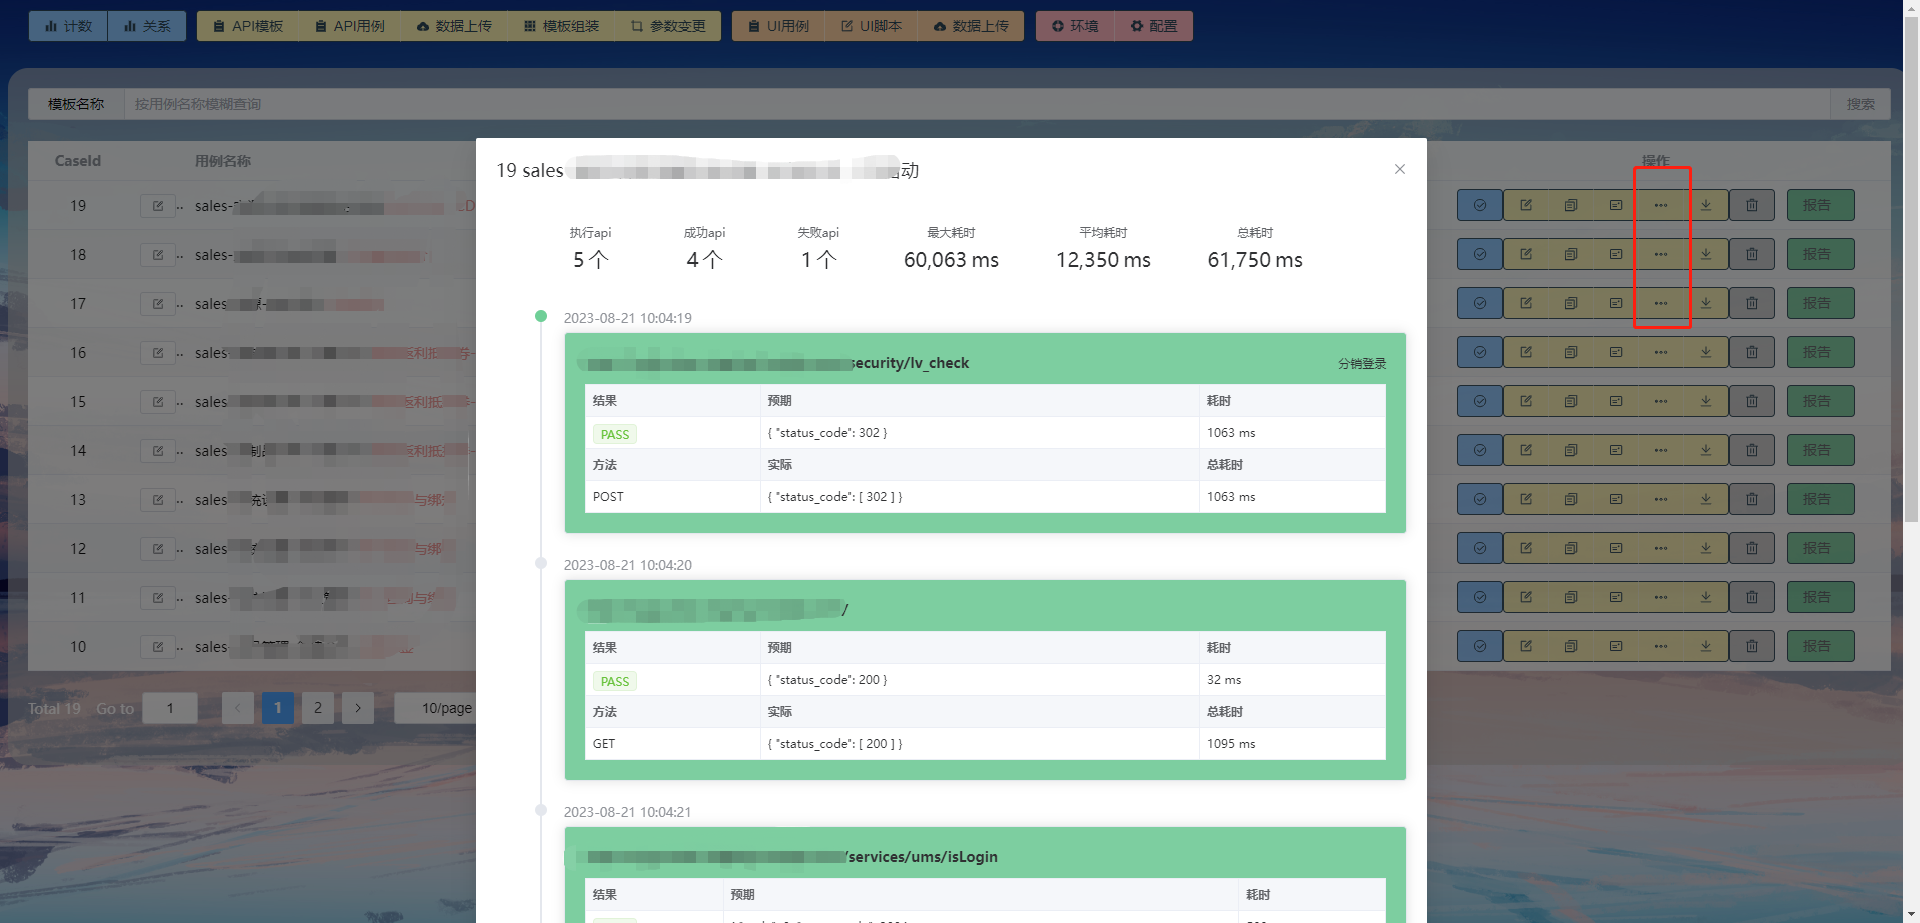
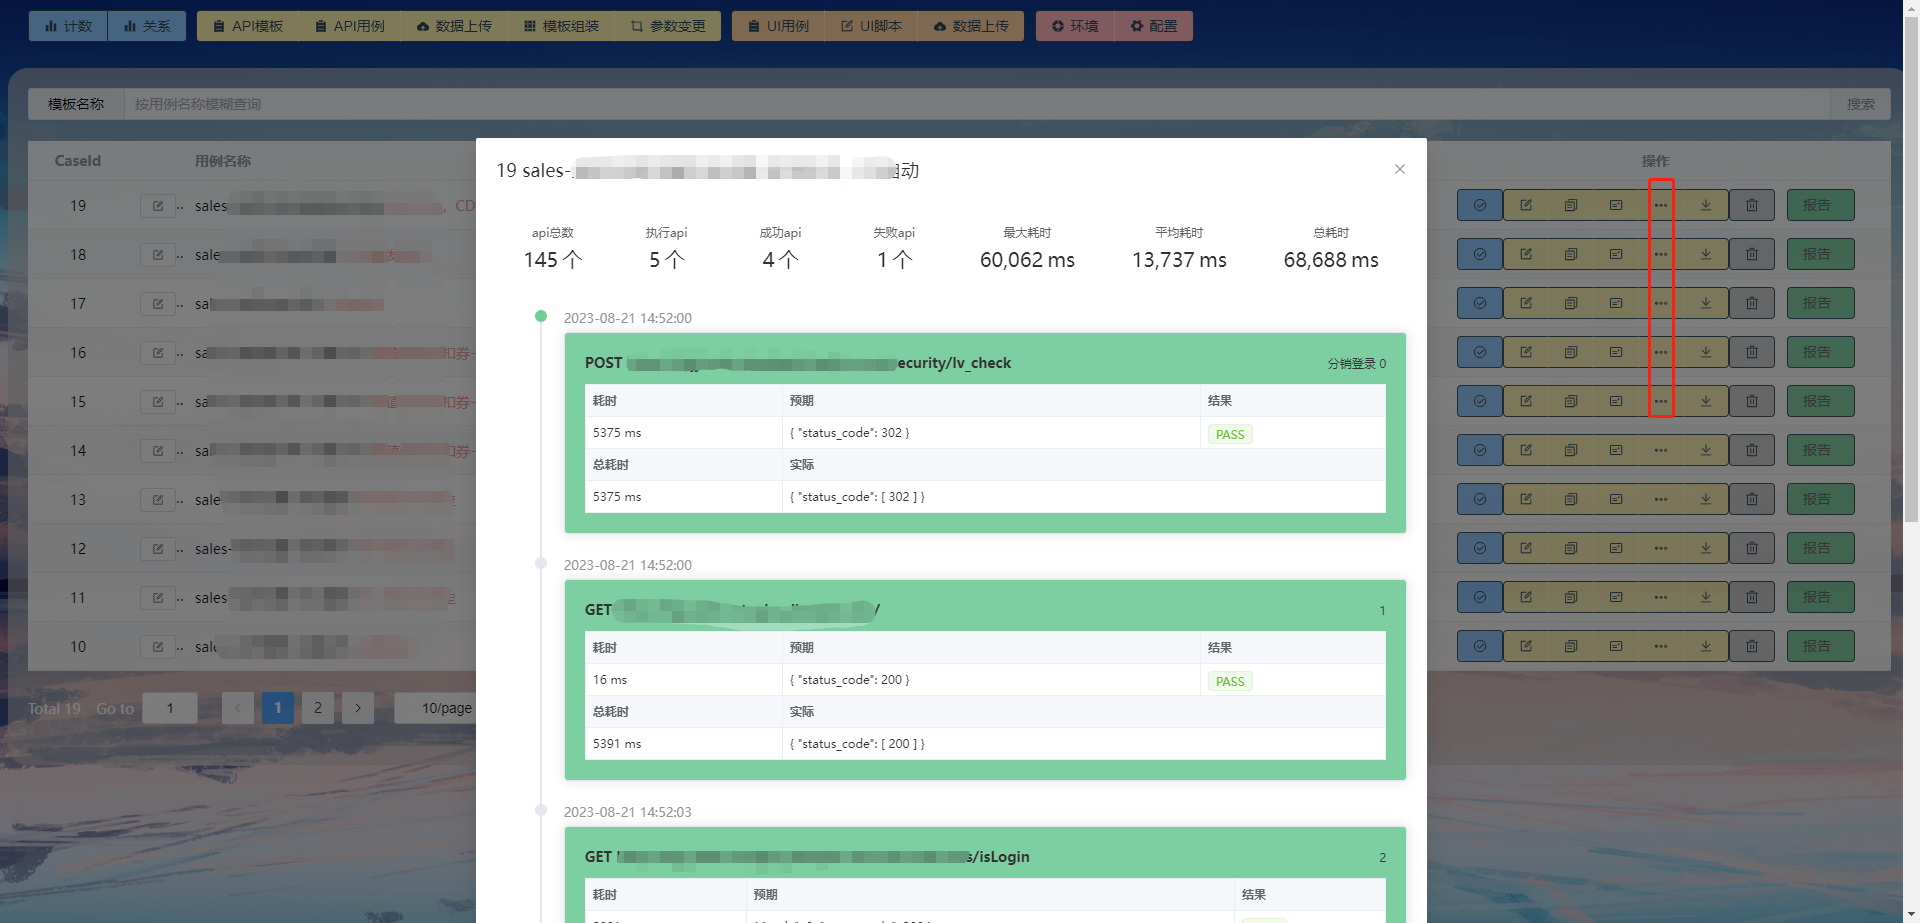
进度条颜色调整，case列表背景调整

diff --git a/src/components/MyCaseInfo.vue b/src/components/MyCaseInfo.vue
@@ -390,6 +390,7 @@ export default {
         },
         // 用例执行时序表
         async schedule(row) {
+            row.scheduleLoading = true
             this.caseId = row.case_id
             this.dataTitle = row.name
 
@@ -412,6 +413,7 @@ export default {
 
             this.scheduleData = res
             this.scheduleDialog = true
+            row.scheduleLoading = false
         },
         // 获取数据集
         async getGather(row) {
@@ -642,5 +644,13 @@ export default {
 .el-dialog-div {
     height: 65vh;
     overflow: auto;
+}
+
+.el-progress.is-success {
+    --el-color-success: #7dcea0;
+}
+
+.el-progress.is-warning {
+    --el-color-warning: #F29492;
 }
 </style>

diff --git a/index.html b/index.html
@@ -241,7 +241,8 @@
     }
     
     .details {
-        background-image: url("src/assets/details.png");
+        /* background-image: url("src/assets/details.png"); */
+        background-color: #7dcea0;
         background-size: 100%;
         /* --el-text-color-primary: aliceblue; */
     }
